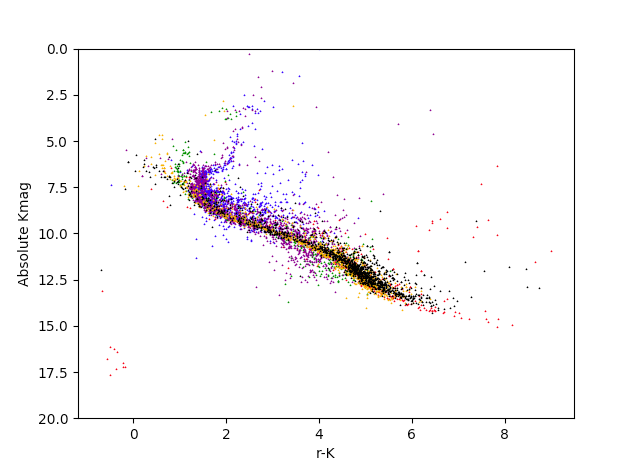
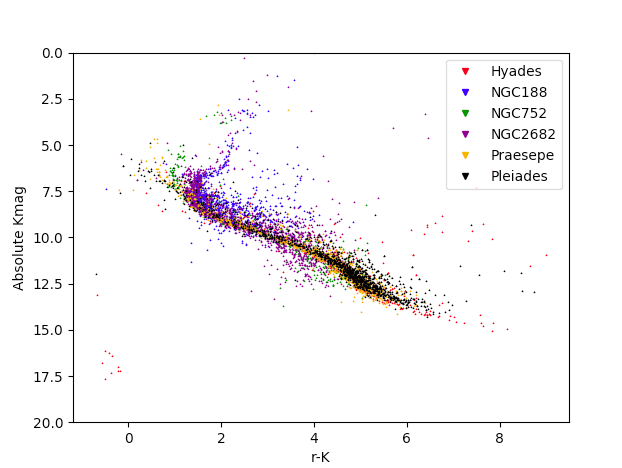
Now includes Legend

diff --git a/K vs. r_mag plots/CMD plot (Absolute K vs r-K)/ClusterCMDPlot.py b/K vs. r_mag plots/CMD plot (Absolute K vs r-K)/ClusterCMDPlot.py
@@ -18,15 +18,15 @@ NGC752 = NGC752.dropna(axis=0, subset=['rmag'])
 NGC188 = NGC188.dropna(axis=0, subset=['rmag'])
 
 # Plotting
-plt.plot(Hyades[["r-K"]], Hyades[["AbsKmag"]], marker = "v", markersize = 0.5, color = "red", linestyle = "none")
-plt.plot(NGC188[["r-K"]], NGC188[["AbsKmag"]], marker = "v", markersize = 0.5, color = "blue", linestyle = "none")
-plt.plot(NGC752[["r-K"]], NGC752[["AbsKmag"]], marker = "v", markersize = 0.5, color = "green", linestyle = "none")
-plt.plot(NGC2682[["r-K"]], NGC2682[["AbsKmag"]], marker = "v", markersize = 0.5, color = "purple", linestyle = "none")
-plt.plot(Praesepe[["r-K"]], Praesepe[["AbsKmag"]], marker = "v", markersize = 0.5, color = "orange", linestyle = "none")
-plt.plot(Pleiades[["r-K"]], Pleiades[["AbsKmag"]], marker = "v", markersize = 0.5, color = "black", linestyle = "none")
+plt.plot(Hyades[["r-K"]], Hyades[["AbsKmag"]], marker = "v", markersize = 0.5, color = "red", linestyle = "none", label = "Hyades")
+plt.plot(NGC188[["r-K"]], NGC188[["AbsKmag"]], marker = "v", markersize = 0.5, color = "blue", linestyle = "none", label = "NGC188")
+plt.plot(NGC752[["r-K"]], NGC752[["AbsKmag"]], marker = "v", markersize = 0.5, color = "green", linestyle = "none", label = "NGC752")
+plt.plot(NGC2682[["r-K"]], NGC2682[["AbsKmag"]], marker = "v", markersize = 0.5, color = "purple", linestyle = "none", label = "NGC2682")
+plt.plot(Praesepe[["r-K"]], Praesepe[["AbsKmag"]], marker = "v", markersize = 0.5, color = "orange", linestyle = "none", label = "Praesepe")
+plt.plot(Pleiades[["r-K"]], Pleiades[["AbsKmag"]], marker = "v", markersize = 0.5, color = "black", linestyle = "none", label = "Pleiades")
 
 plt.ylabel("Absolute Kmag")
 plt.xlabel("r-K")
-
+plt.legend(markerscale = 8)
 plt.ylim(20, 0)
 plt.show()
